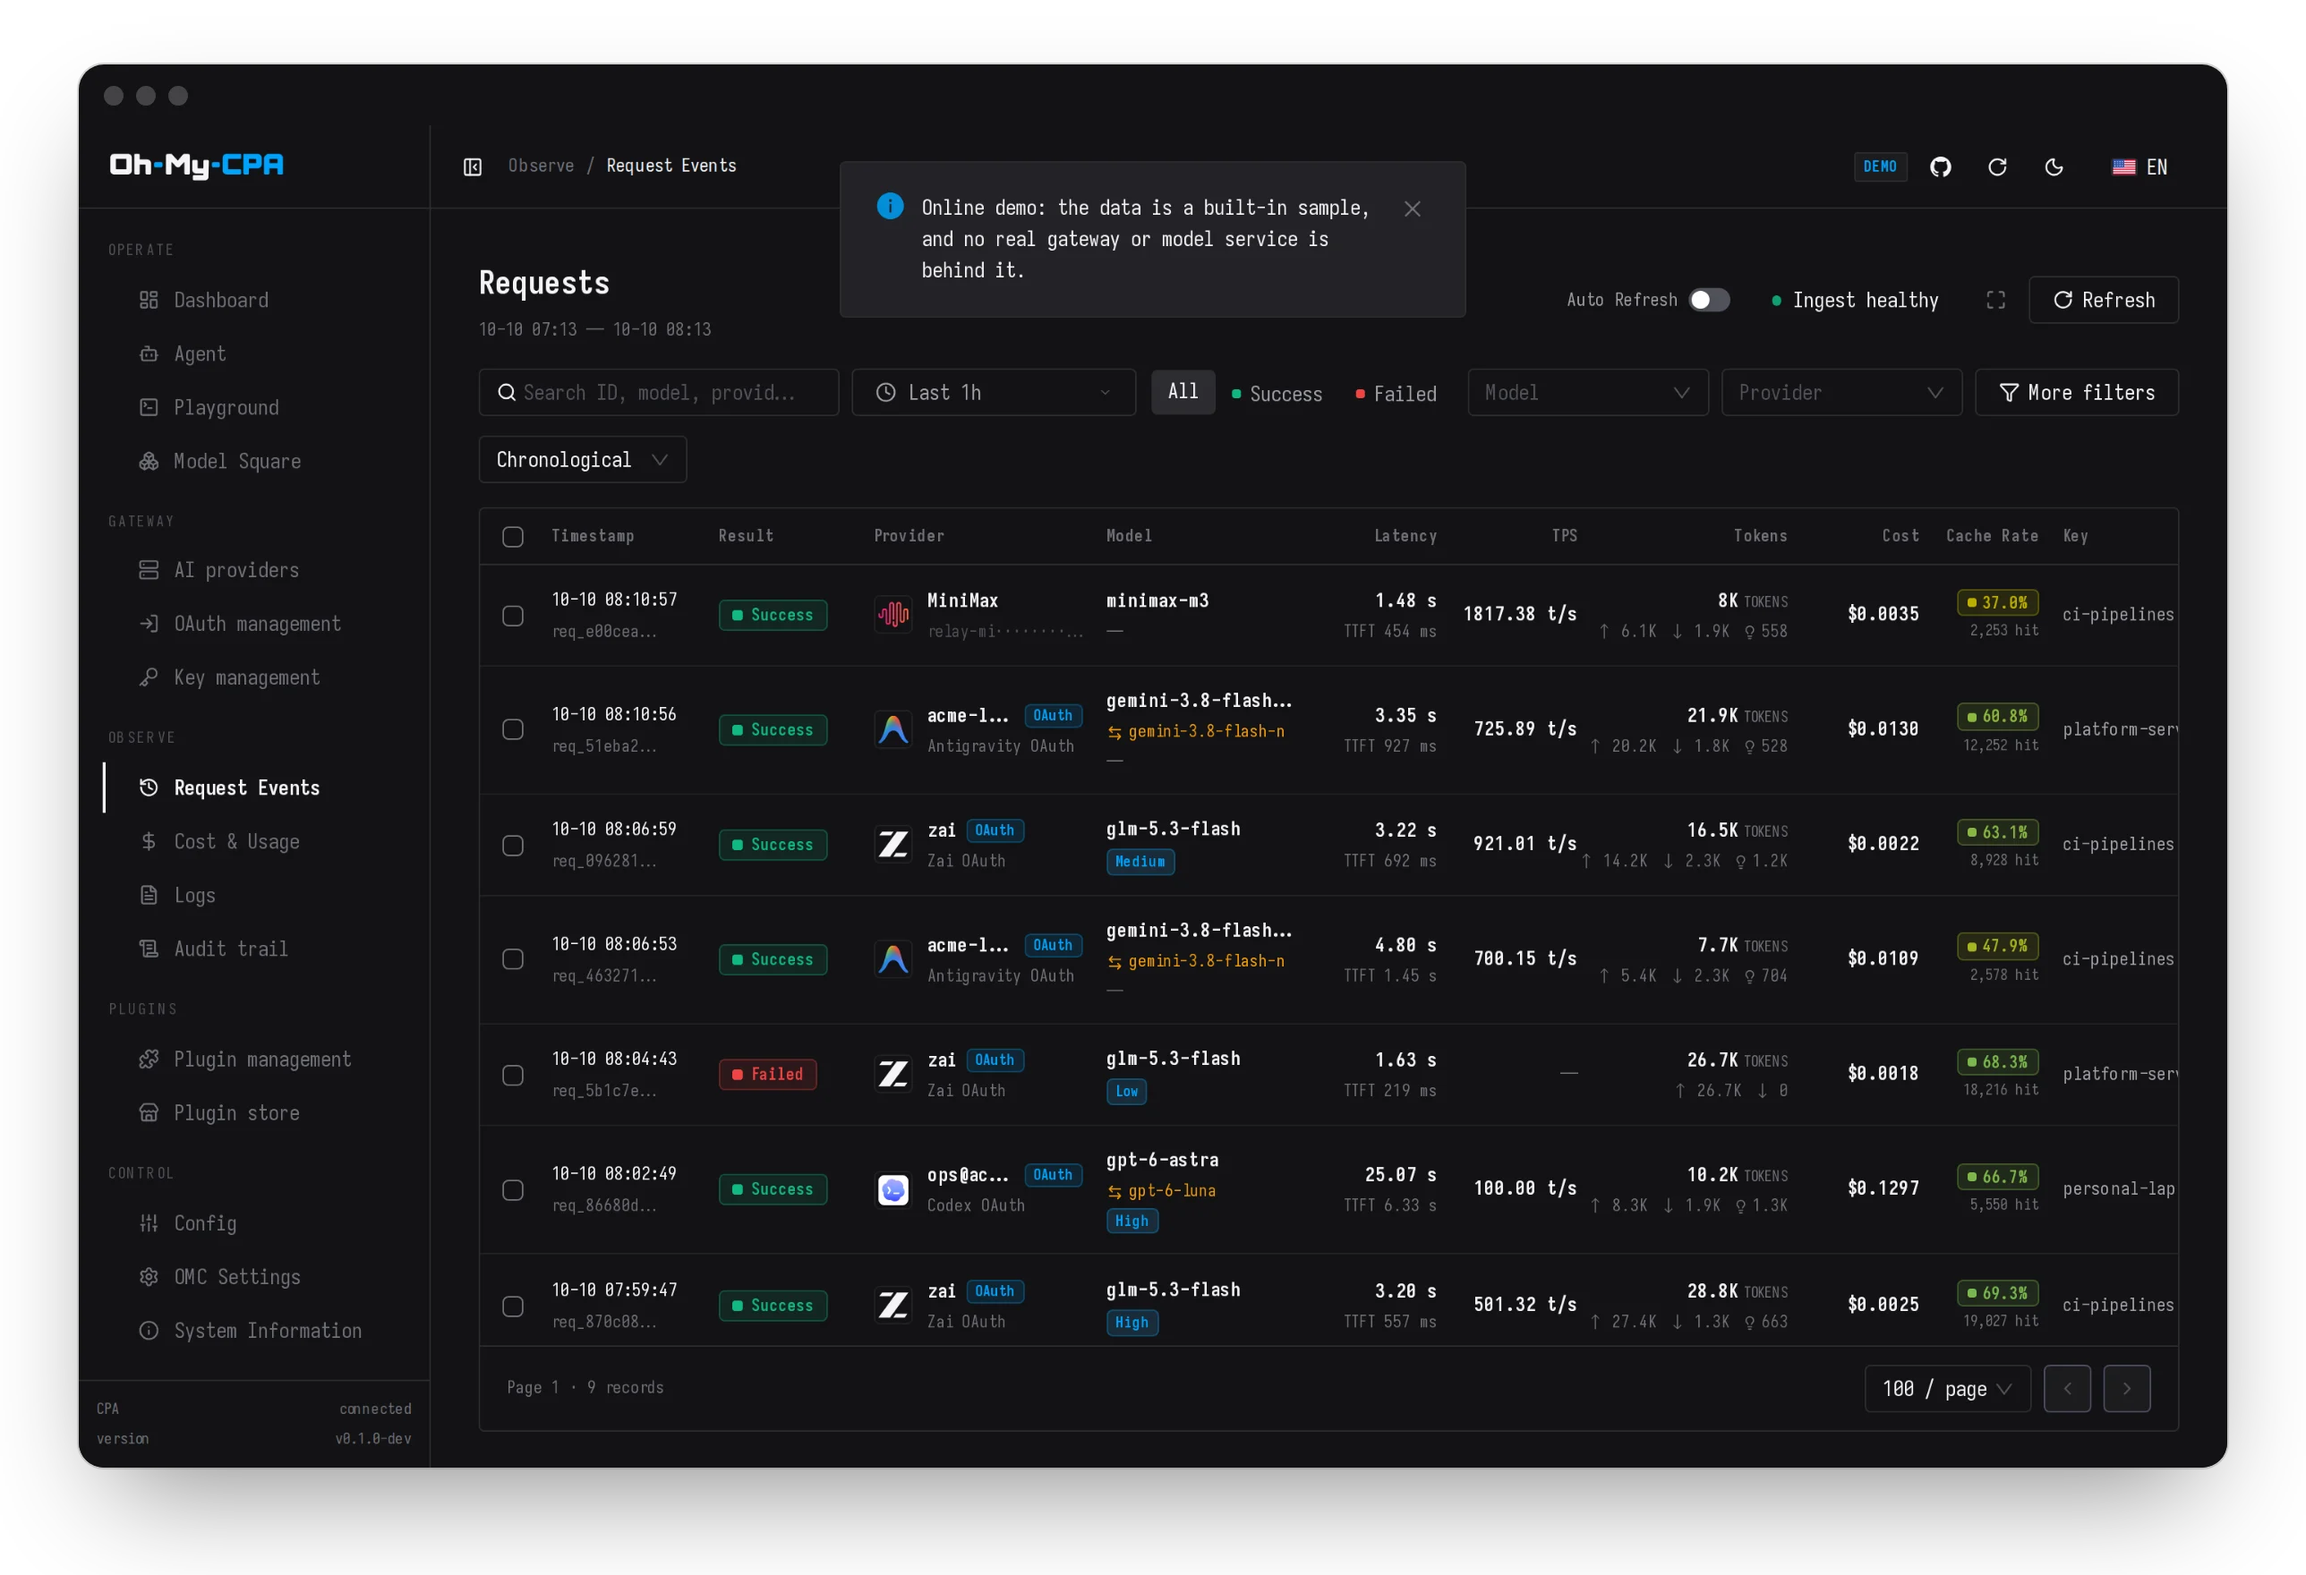
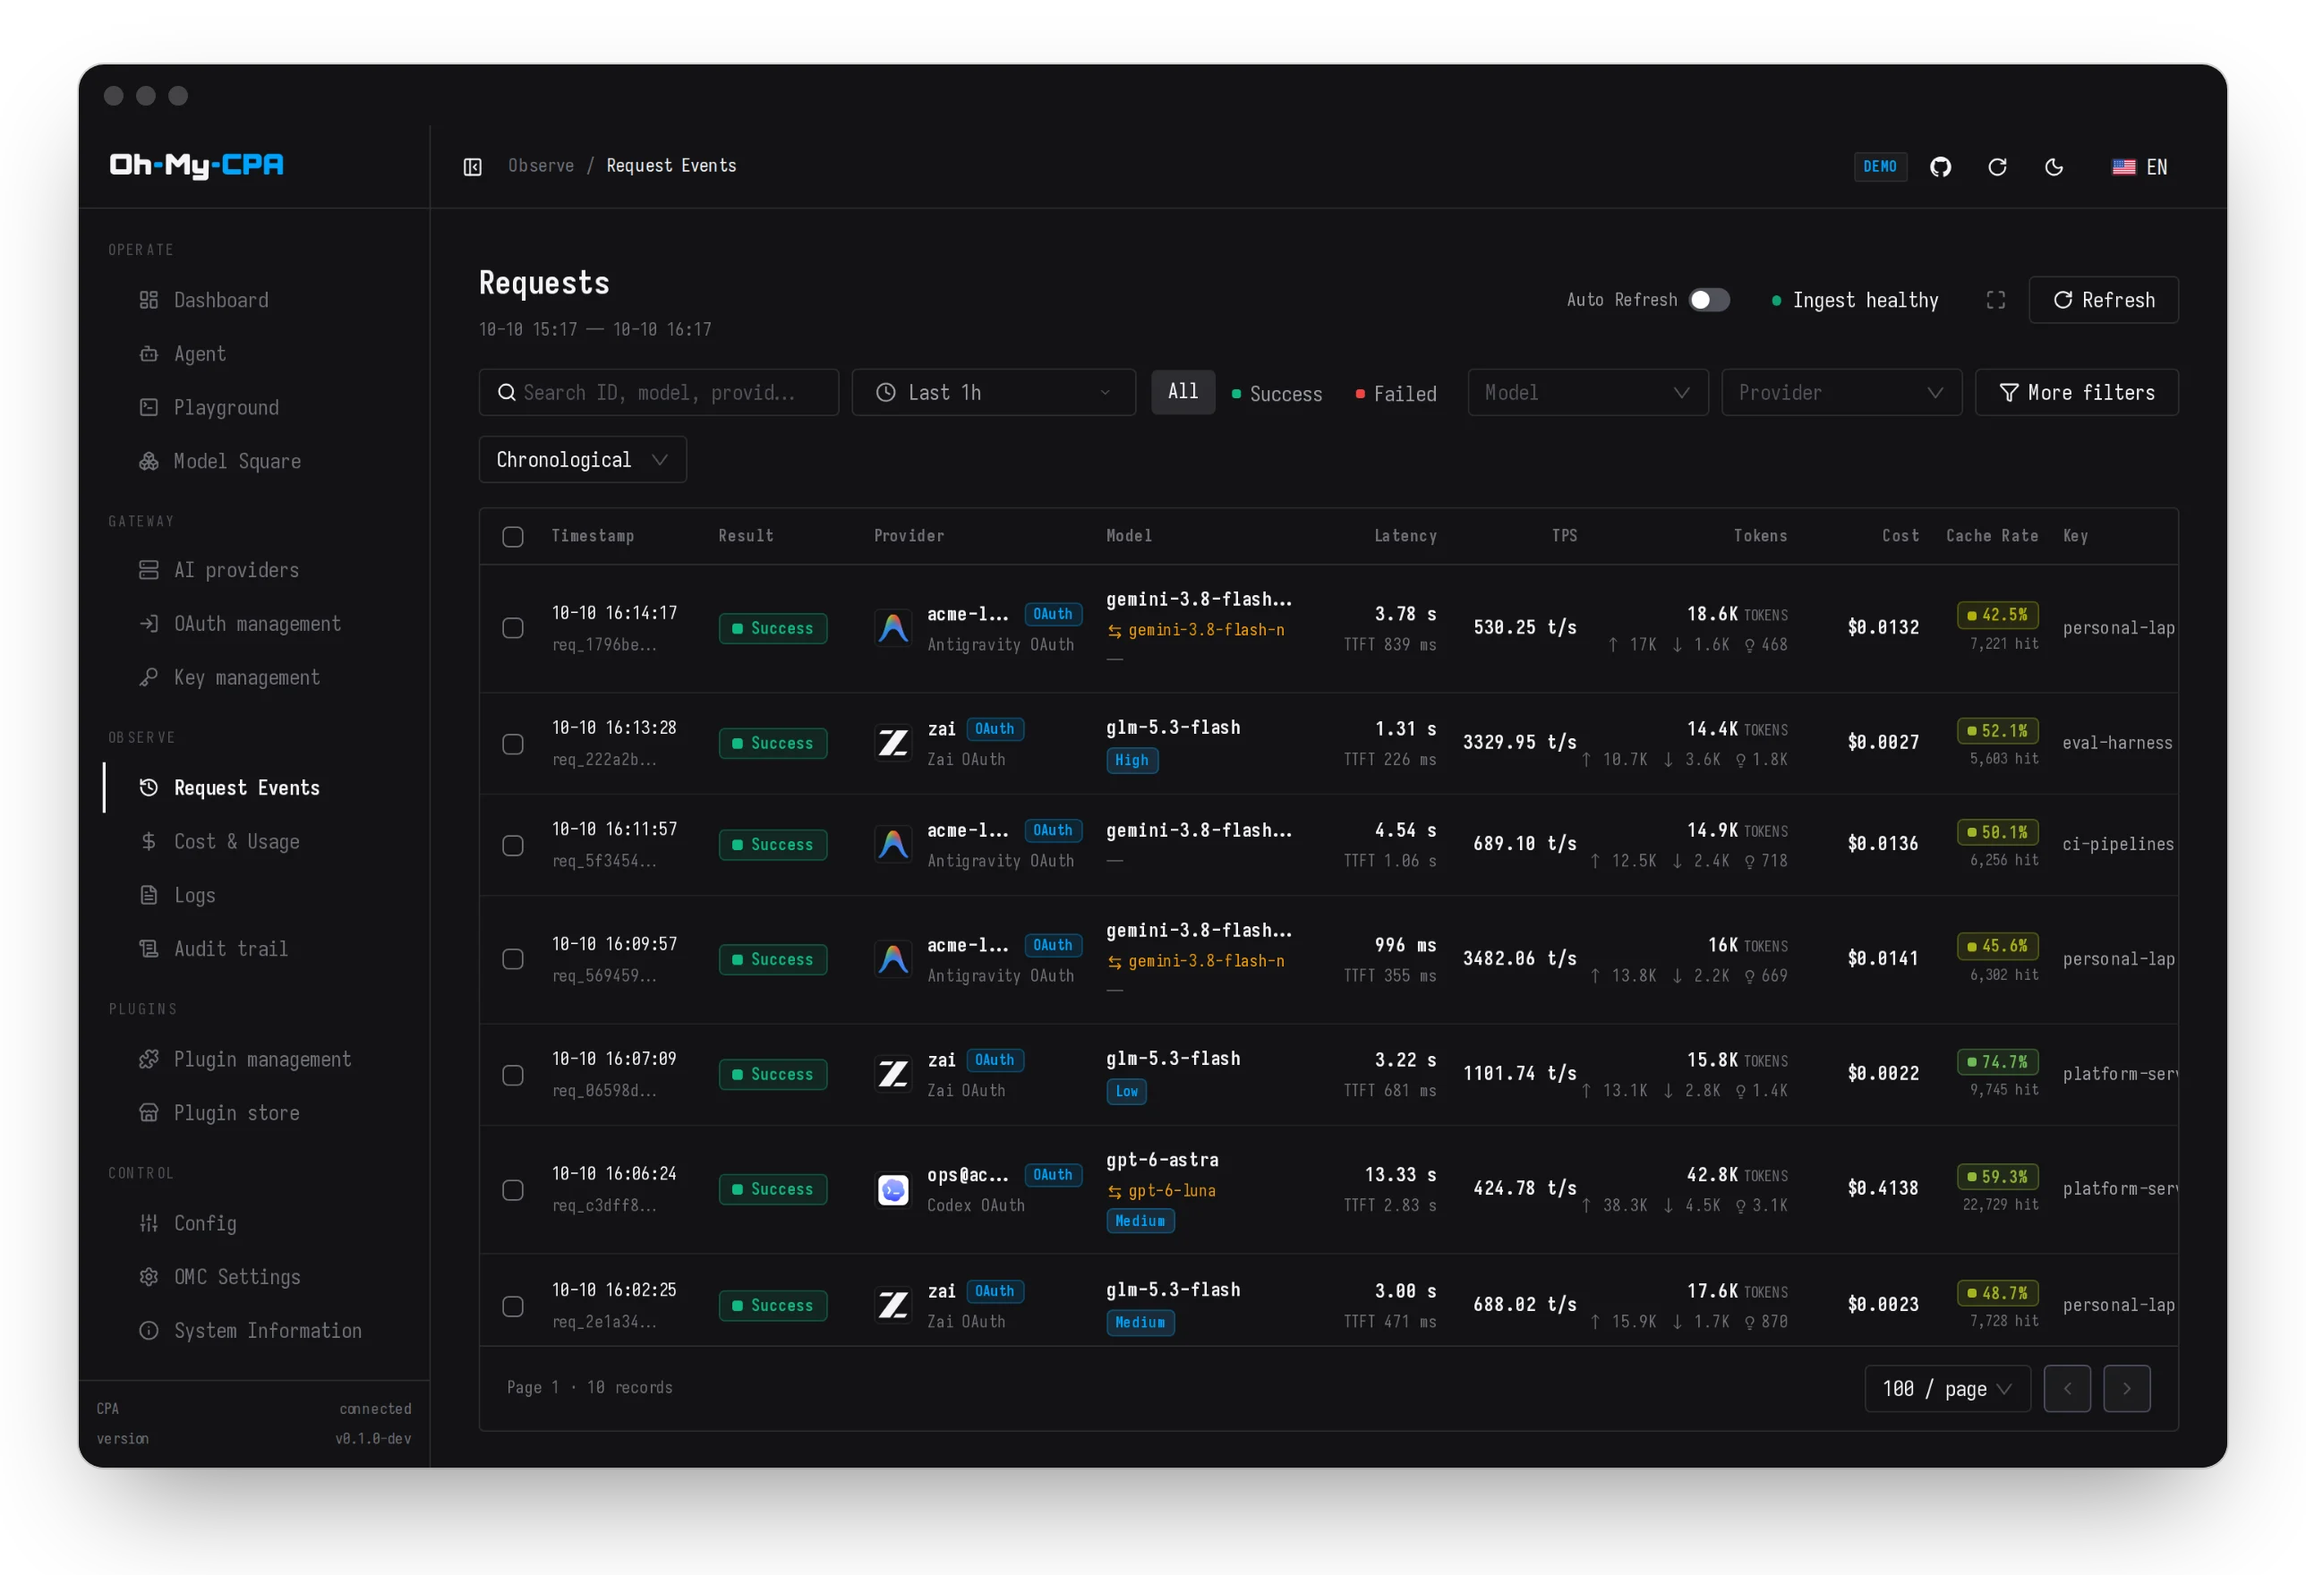
fix(docs): wait for toasts before capturing readme screenshots (#175)
Wait for visible, settled Demo content and detached toast feedback before README capture, including a final readiness wait after fonts and chart frames settle. Preserve the existing timeout and normal Demo behavior.

Regenerate all 20 English and Simplified Chinese desktop/mobile README images. Add predicate and held-wait capture regressions covering late feedback, timeout propagation and context cleanup; update docs/testing.md with their ownership.

Validated locally with pnpm test:fast, pnpm verify, pnpm check:ui, pnpm check-docs and controlled real-Chromium late-toast capture. CI static, browser, all probe shards and the aggregate passed on the reviewed head.

diff --git a/docs/testing.md b/docs/testing.md
@@ -1034,3 +1034,18 @@ The existing `agent-stream` probe exports a generated component as standalone HT
 it requires script-set content in the opaque sandbox and an exact fixture color in PNG
 pixels, then checks temporary-frame cleanup. The common conversation-export helper retains
 real download/controls/mobile checks. These browser claims are not replaced by DOM tests.
+
+### README screenshot readiness
+
+`scripts/readme-screenshot-readiness.test.mjs` pins the capture predicate: visible
+page content, no visible loading surfaces, and no mounted toast (including its exit
+motion). It is automatically discovered by `pnpm test:self`; it does not launch a
+browser or certify pixels. `pnpm build && pnpm readme:screenshots` supplies the real
+Chromium evidence and regenerates the English/Chinese desktop and mobile images
+under `docs/images/readme/`. The generator waits on that predicate rather than a
+fixed delay, waits on it again immediately before capture, and leaves the Demo's
+normal arrival feedback unchanged. `scripts/readme-screenshots.test.mjs` holds the
+final wait to pin late-toast admission, timeout propagation, and context cleanup
+without launching Chromium; the immediate-check implementation fails these cases.
+Image freshness remains outside verification
+gates because the sample traffic is rebased to the capture clock.
